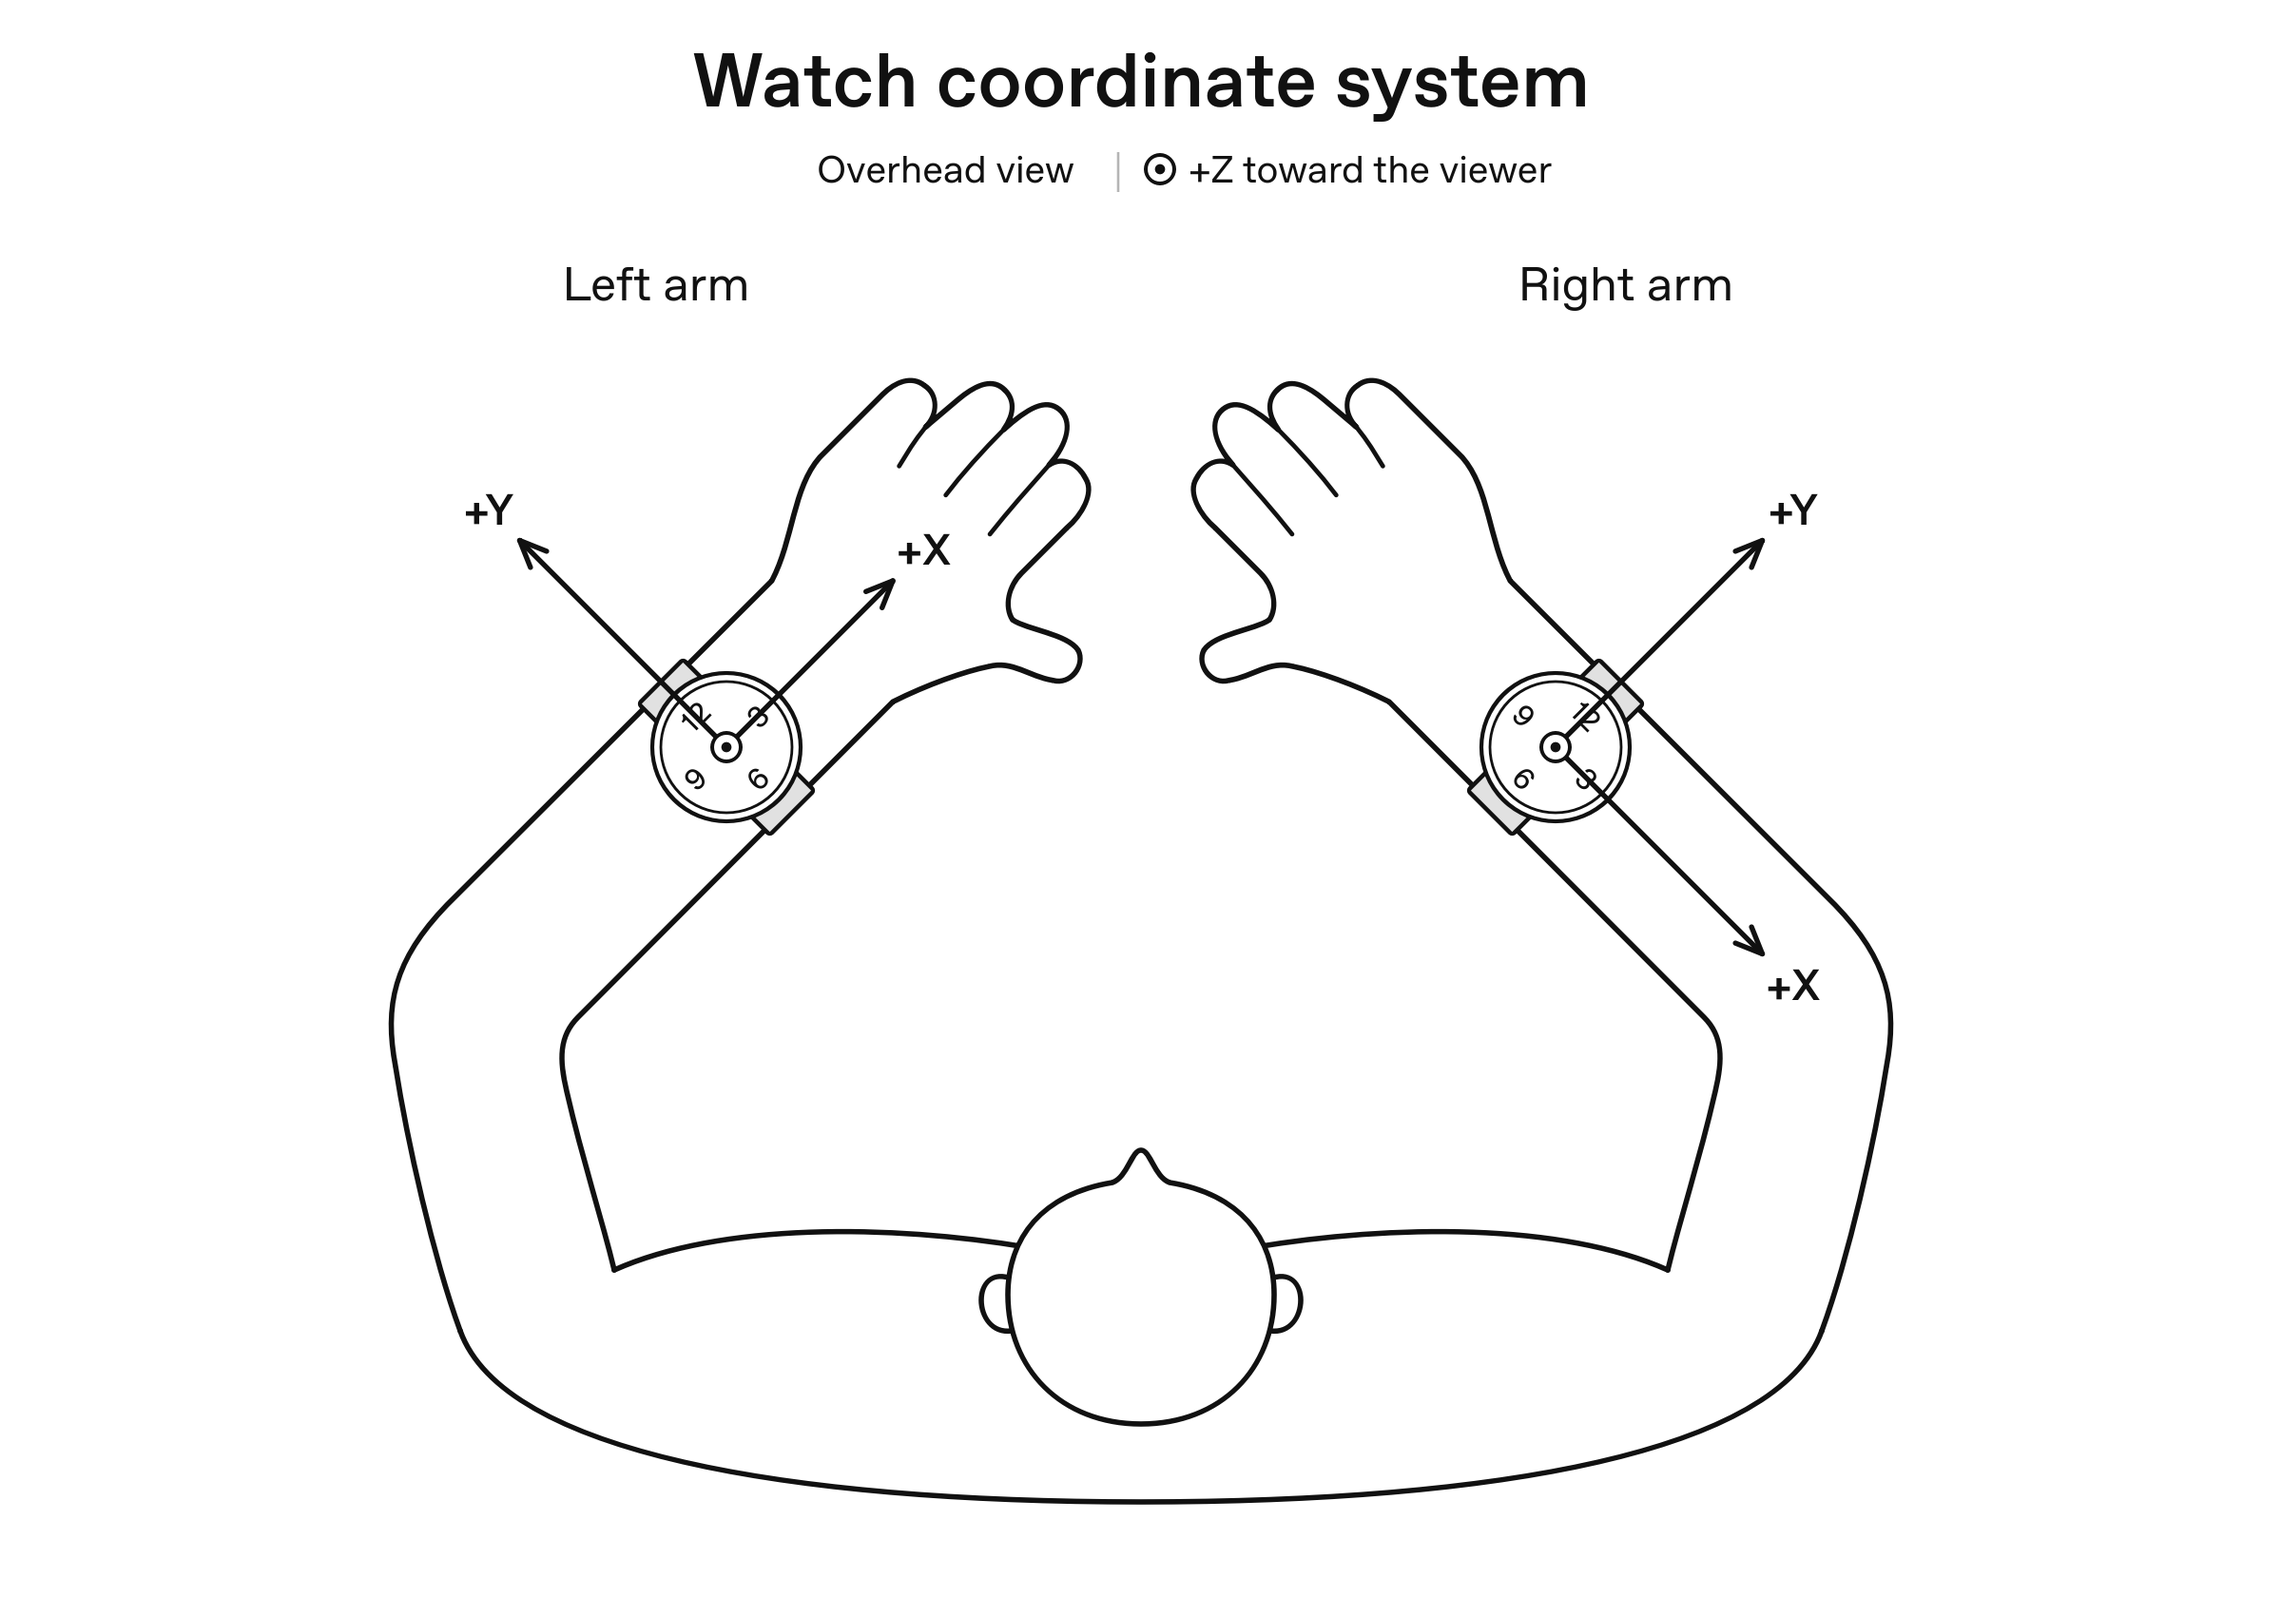
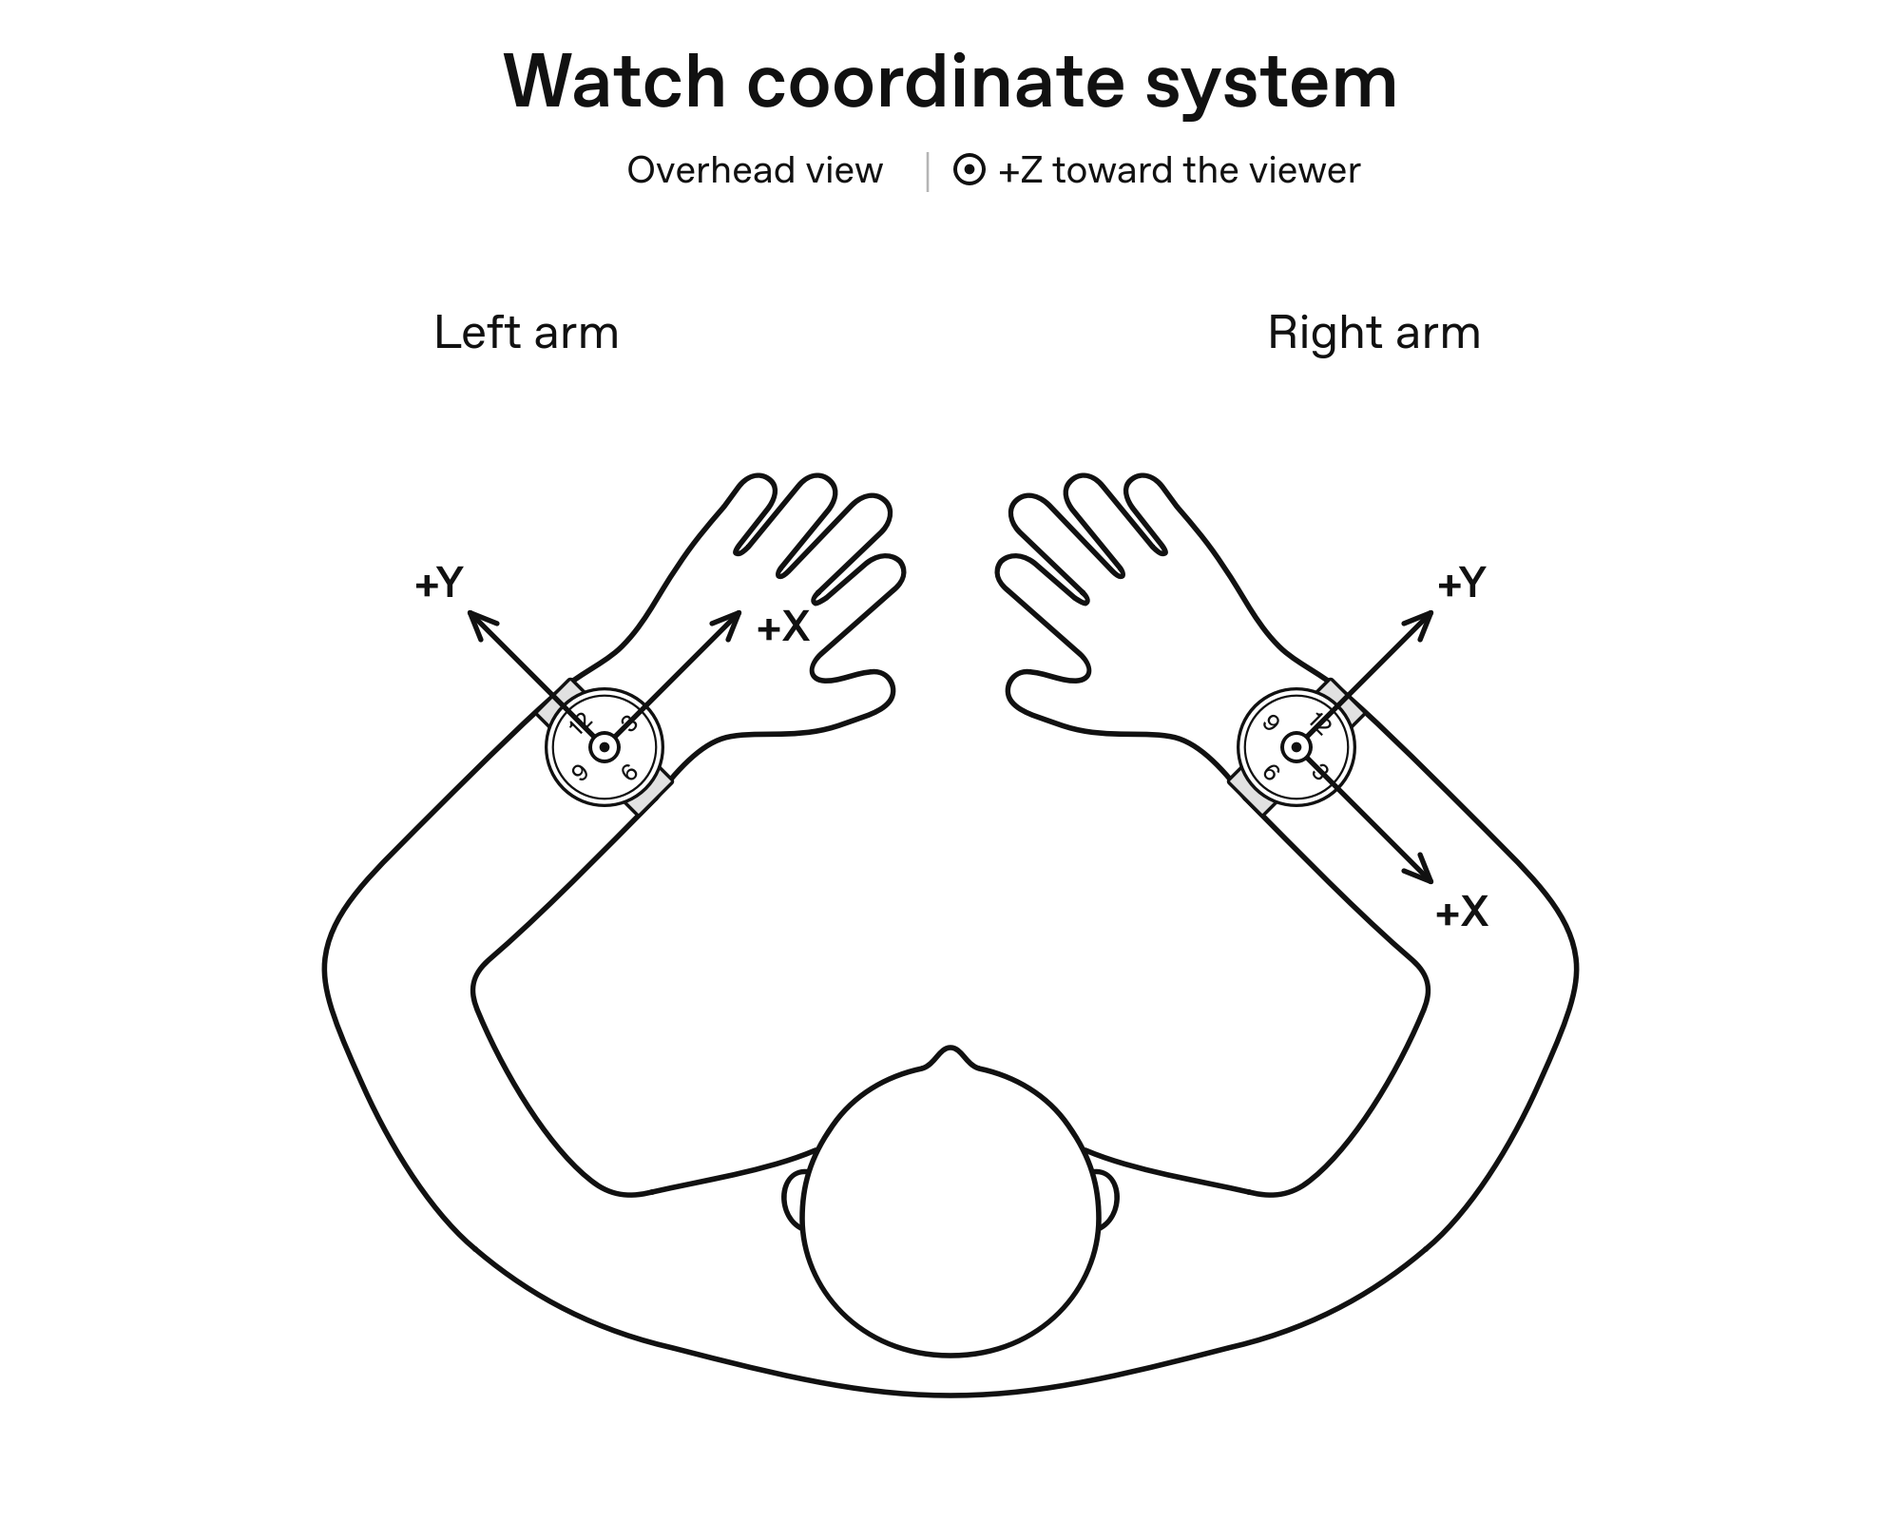
Update sensor orientation figure to supplied version 3

diff --git a/CHANGELOG.md b/CHANGELOG.md
@@ -2,6 +2,8 @@
 
 ## Unreleased
 
+- Update the Signal columns sensor-orientation figure to the repository owner's
+  supplied version 3, including its matching display image in the user guide.
 - Restore separate **Open files…** and **Open folders…** buttons while retaining
   native multi-folder selection. Show draggable scrollbars in long dropdowns,
   support pixel-based trackpad scrolling, and replace the Signal columns help
